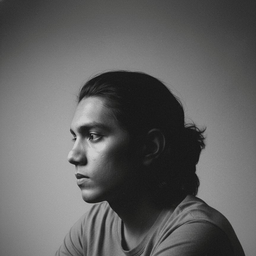
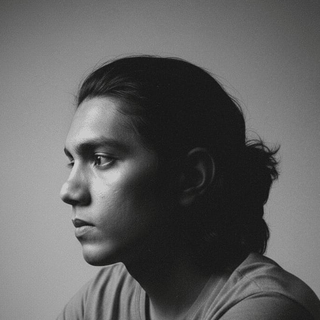
fix(assets): crop Kesaru portrait headshot, bust immutable cache with testimonial-kesaru.webp

diff --git a/src/App.tsx b/src/App.tsx
@@ -416,7 +416,7 @@ export default function App() {
               <div className="flex items-center gap-3 pt-1">
                 <div className="w-11 h-11 sm:w-12 sm:h-12 rounded-full overflow-hidden bg-neutral-100 dark:bg-neutral-800 border border-navy-900/10 dark:border-white/10 shrink-0">
                   <img
-                    src="/assets/testimonial-student.webp"
+                    src="/assets/theme/testimonial-kesaru.webp"
                     alt="Kesaru S., Undergraduate, SLIIT"
                     width={48}
                     height={48}
